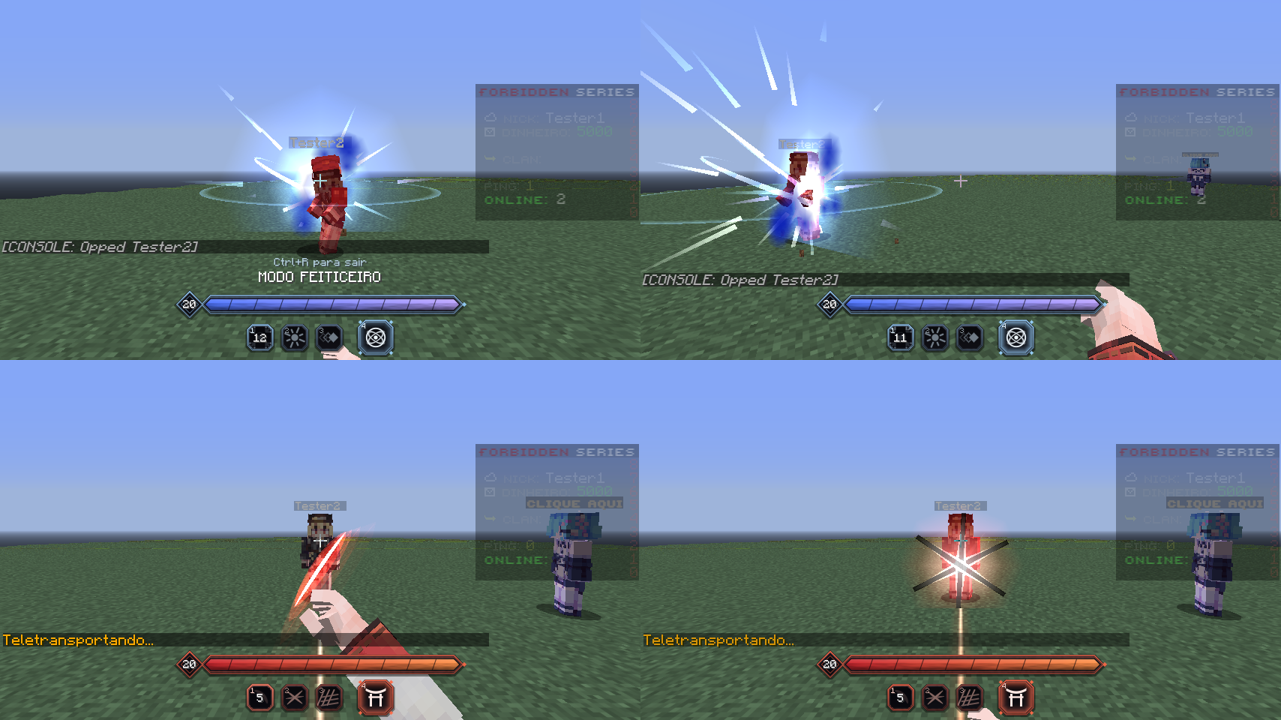
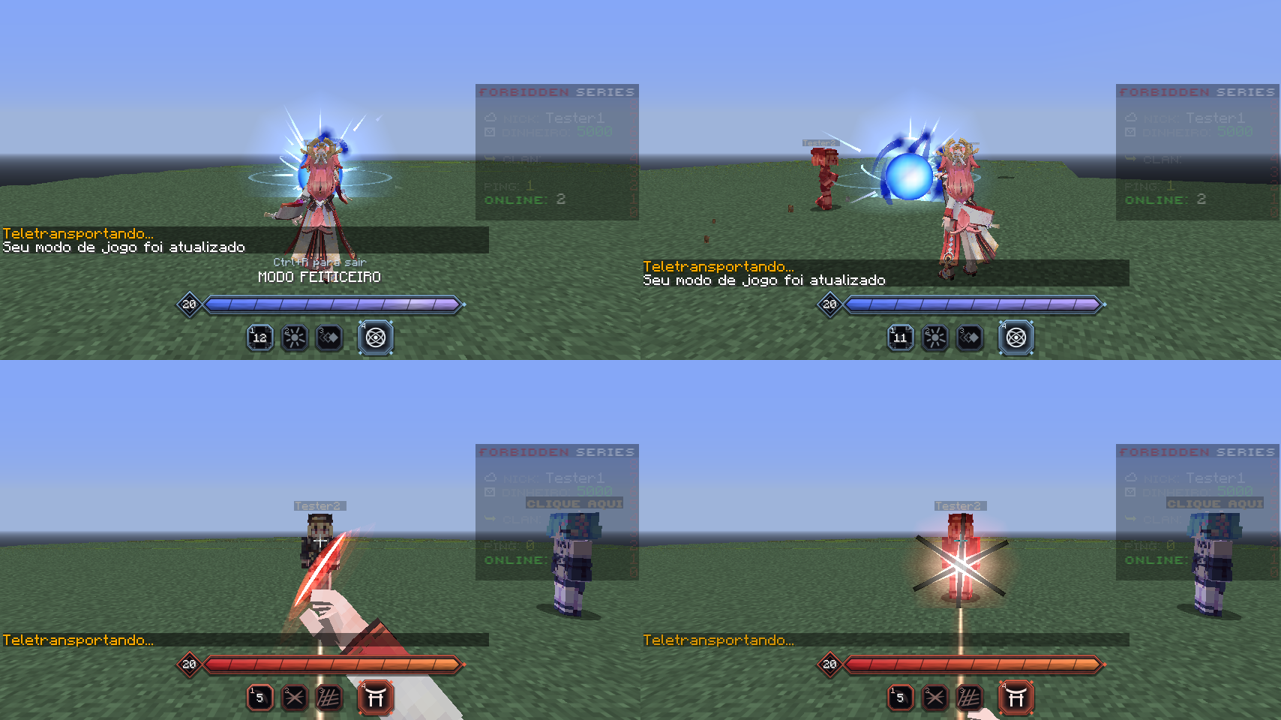
Atração: o orbe passa a ser uma esfera de verdade
O dono achou o efeito, feito só de brilhos, desagradável, e pediu uma esfera
azul de verdade.

* Uma malha esférica colorida pelo ângulo de cada ponto da superfície com o
  olho: branca no meio, azul-gelo, azul escuro na borda, um fio claro no
  contorno, e faixas que giram.
* Halo maior, uma poça de luz no chão embaixo, e os respingos de azul escuro
  ganham corpo e cauda.
* Harness: comando orb, para olhar a esfera sem servidor.

Claude-Session: https://claude.ai/code/session_01ELhLZxgHWpCrtrbY6oL2gv

diff --git a/src/main/java/com/akashic/ryoiki/client/AbilityFx.java b/src/main/java/com/akashic/ryoiki/client/AbilityFx.java
@@ -79,6 +79,8 @@ public final class AbilityFx {
         int age;
         /** Begun in the air: its caster hangs there. */
         boolean air;
+        /** The height of the ground under it; NaN when there is none near. */
+        float ground = Float.NaN;
         /** Ticks since it ended; negative while it lasts. */
         int closing = -1;
         final float[] needles = new float[NEEDLES * 4];
@@ -205,6 +207,11 @@ public final class AbilityFx {
         return CastPose.layer(age, g[2]);
     }
 
+    /** For the development harness: an effect, as if the server had announced it. */
+    public void show(byte[] data) {
+        heard(ModeWire.decode(data));
+    }
+
     /** Whether a player hangs in the air by an orb it began there: it does not move until the orb is over. */
     public boolean hangs(int entity) {
         Orb o = orbs.get(entity);
@@ -238,6 +245,17 @@ public final class AbilityFx {
                 o.closing = 0;
             } else {
                 rubble(mc.theWorld, o);
+            }
+            o.ground = Float.NaN;
+            int bx = MathHelper.floor_double(o.x);
+            int bz = MathHelper.floor_double(o.z);
+            for (int by = MathHelper.floor_double(o.y); by >= MathHelper.floor_double(o.y) - 4; by--) {
+                if (mc.theWorld.getBlock(bx, by, bz)
+                    .getMaterial()
+                    .blocksMovement()) {
+                    o.ground = by + 1;
+                    break;
+                }
             }
             if (o.closing > PULL_CLOSES) {
                 i.remove();
@@ -312,6 +330,86 @@ public final class AbilityFx {
 
     // Atração.
 
+    private static final int[] SPHERE = { 0x1838D8, 0x2F8CFF, 0x58D6FF, 0xBFF6FF, 0xFFFFFF };
+    private static final int SPHERE_RIM = 0x8FC8FF;
+    private static final int STACKS = 14;
+    private static final int SLICES = 22;
+
+    /**
+     * A sphere at a place (blocks from the camera), coloured by how its surface faces the eye, with bands of light
+     * that turn about it.
+     */
+    private static void sphere(Tessellator t, float x, float y, float z, float radius, float age, float alpha) {
+        if (alpha <= 0.02F) {
+            return;
+        }
+        float distance = (float) Math.sqrt(x * x + y * y + z * z);
+        if (distance < radius * 1.15F) {
+            // The eye is in it: there is no outside to draw.
+            return;
+        }
+        float[][][] at = new float[STACKS + 1][SLICES + 1][3];
+        int[][] color = new int[STACKS + 1][SLICES + 1];
+        float[][] facing = new float[STACKS + 1][SLICES + 1];
+        for (int i = 0; i <= STACKS; i++) {
+            double lat = Math.PI * i / STACKS - Math.PI / 2;
+            float cosLat = (float) Math.cos(lat);
+            float sinLat = (float) Math.sin(lat);
+            for (int j = 0; j <= SLICES; j++) {
+                double lon = Math.PI * 2 * j / SLICES;
+                float nx = cosLat * (float) Math.cos(lon);
+                float nz = cosLat * (float) Math.sin(lon);
+                float px = x + nx * radius;
+                float py = y + sinLat * radius;
+                float pz = z + nz * radius;
+                at[i][j][0] = px;
+                at[i][j][1] = py;
+                at[i][j][2] = pz;
+                // How squarely this bit of surface faces the eye: 1 in the middle of the disc, 0 on its edge.
+                float length = (float) Math.sqrt(px * px + py * py + pz * pz);
+                float f = -(nx * px + sinLat * py + nz * pz) / length;
+                facing[i][j] = f;
+                int c = Draw.mix(SPHERE[0], SPHERE[1], smooth((f - 0.14F) / 0.28F));
+                c = Draw.mix(c, SPHERE[2], smooth((f - 0.40F) / 0.30F));
+                c = Draw.mix(c, SPHERE[3], smooth((f - 0.68F) / 0.20F));
+                c = Draw.mix(c, SPHERE[4], smooth((f - 0.86F) / 0.13F));
+                c = Draw.mix(c, SPHERE_RIM, (1 - smooth(f / 0.09F)) * 0.75F);
+                // The bands: brighter and darker stripes that wind about it and turn.
+                float band = MathHelper.sin((float) (4 * lon + 3 * Math.sin(2 * lat)) + age * 0.35F);
+                color[i][j] = band > 0 ? Draw.mix(c, 0xFFFFFF, 0.16F * band) : Draw.mix(c, SPHERE[0], -0.14F * band);
+            }
+        }
+        Draw.translucent();
+        GL11.glDepthMask(true);
+        t.startDrawingQuads();
+        for (int i = 0; i < STACKS; i++) {
+            for (int j = 0; j < SLICES; j++) {
+                if (facing[i][j] < -0.05F && facing[i + 1][j] < -0.05F
+                    && facing[i][j + 1] < -0.05F
+                    && facing[i + 1][j + 1] < -0.05F) {
+                    // The far side.
+                    continue;
+                }
+                corner(t, at[i][j], color[i][j], alpha);
+                corner(t, at[i][j + 1], color[i][j + 1], alpha);
+                corner(t, at[i + 1][j + 1], color[i + 1][j + 1], alpha);
+                corner(t, at[i + 1][j], color[i + 1][j], alpha);
+            }
+        }
+        t.draw();
+        GL11.glDepthMask(false);
+    }
+
+    private static void corner(Tessellator t, float[] at, int color, float alpha) {
+        Draw.color(t, color, alpha);
+        t.addVertex(at[0], at[1], at[2]);
+    }
+
+    private static float smooth(float v) {
+        v = Draw.clamp01(v);
+        return v * v * (3 - 2 * v);
+    }
+
     /** Bits of the ground under an orb, torn up toward it: the game's own, of whatever block is there. */
     private static void rubble(World world, Orb o) {
         if (world == null || world.rand.nextInt(2) != 0) {
@@ -349,7 +447,7 @@ public final class AbilityFx {
         float near = 0.16F + 0.84F * Draw.clamp01(((float) Math.sqrt(x * x + y * y + z * z) - 0.8F) / 2.6F);
         float alive = open * (1 - closing) * near;
         float beat = 0.5F + 0.5F * MathHelper.sin(age * 0.9F);
-        float size = (0.62F + 0.06F * beat) * (0.35F + 0.65F * open) * (1 - closing * closing);
+        float size = (0.62F + 0.03F * beat) * (0.35F + 0.65F * open) * (1 - closing * closing);
         float speed = (float) Math.sqrt(vx * vx + vy * vy + vz * vz);
 
         // Swung through the air it leaves itself behind: paler orbs along the way it came.
@@ -453,34 +551,69 @@ public final class AbilityFx {
             GL11.glPopMatrix();
         }
 
-        // The orb: a wide blue light, a bright one inside it, a white heart.
+        // The light it throws: around it, and in a pool on whatever ground is under it.
         t.startDrawing(GL11.GL_TRIANGLES);
-        Draw.glow(t, x, y, z, size * 4.4F, BLUE, 0.5F * alive);
-        Draw.glow(t, x, y, z, size * 2.3F, ICE, 0.85F * alive);
-        Draw.glow(t, x, y, z, size * 1.25F, WHITE, alive);
+        Draw.glow(t, x, y, z, size * 5.8F, BLUE, 0.4F * alive);
+        Draw.glow(t, x, y, z, size * 3.3F, 0x7FCBFF, 0.55F * alive);
+        Draw.glow(t, x, y, z, size * 2.15F, 0xCFEFFF, 0.5F * alive);
         t.draw();
-        // And about it, dark lobes of deep blue, turning: what it has swallowed and not yet let go.
+        if (!Float.isNaN(o.ground) && o.y - o.ground < 4) {
+            float low = 1 - (float) (o.y - o.ground) / 4;
+            GL11.glPushMatrix();
+            GL11.glTranslatef(x, (float) (o.ground - RenderManager.renderPosY) + 0.03F, z);
+            Draw.ring(0, 0.6F + 2.6F * low, 28, 0xDFF4FF, 0.42F * alive * low, 0x7FCBFF, 0);
+            GL11.glPopMatrix();
+        }
+        // About it, dark splashes of deep blue, turning: each a hard little body with a tail.
         Draw.translucent();
-        t.startDrawing(GL11.GL_TRIANGLES);
         for (int i = 0; i < LOBES; i++) {
             float tilt = o.lobes[i * 4];
-            float a = o.lobes[i * 4 + 1] + age * o.lobes[i * 4 + 3];
-            float reach = size * o.lobes[i * 4 + 2] * (1.5F + 0.25F * MathHelper.sin(age * 0.3F + i));
-            float ca = MathHelper.cos(a) * reach;
-            float sa = MathHelper.sin(a) * reach;
-            float lx = x + ca * MathHelper.cos(tilt);
-            float ly = y + sa * 0.8F + ca * MathHelper.sin(tilt) * 0.5F;
-            float lz = z + sa * 0.6F - ca * MathHelper.sin(tilt) * 0.4F;
-            Draw.glow(t, lx, ly, lz, size * (0.7F + 0.2F * MathHelper.sin(age * 0.5F + i * 2)), INK, 0.8F * alive);
+            float reach = size * (1.75F + 0.75F * o.lobes[i * 4 + 2]) * (1 + 0.12F * MathHelper.sin(age * 0.3F + i));
+            float[] last = null;
+            for (int step = 0; step <= 9; step++) {
+                // The body leads; the tail is where it was a moment ago.
+                float a = o.lobes[i * 4 + 1] + (age - step * 0.32F) * o.lobes[i * 4 + 3];
+                float ca = MathHelper.cos(a) * reach;
+                float sa = MathHelper.sin(a) * reach;
+                float[] at = { x + ca * MathHelper.cos(tilt), y + sa * 0.85F + ca * MathHelper.sin(tilt) * 0.5F,
+                    z + sa * 0.6F - ca * MathHelper.sin(tilt) * 0.4F };
+                if (step == 0) {
+                    float body = size * (0.3F + 0.12F * MathHelper.sin(age * 0.5F + i * 2));
+                    t.startDrawing(GL11.GL_TRIANGLES);
+                    Draw.glow(t, at[0], at[1], at[2], body * 2.1F, INK, 0.75F * alive);
+                    Draw.glow(t, at[0], at[1], at[2], body * 1.1F, 0x061280, alive);
+                    t.draw();
+                } else {
+                    float f0 = 1 - (step - 1) / 9F;
+                    float f1 = 1 - step / 9F;
+                    t.startDrawingQuads();
+                    ribbon(
+                        t,
+                        last[0],
+                        last[1],
+                        last[2],
+                        at[0],
+                        at[1],
+                        at[2],
+                        size * 0.26F * f0,
+                        size * 0.26F * f1,
+                        INK,
+                        0.8F * alive * f0,
+                        INK,
+                        0.8F * alive * f1);
+                    t.draw();
+                }
+                last = at;
+            }
         }
-        t.draw();
-        Draw.additive();
-        t.startDrawing(GL11.GL_TRIANGLES);
-        Draw.glow(t, x, y, z, size * 0.7F, WHITE, 0.9F * alive);
-        t.draw();
+        // The orb itself: a sphere, with a body and an edge. From the eye, its middle is white, then the blue of
+        // ice, then a deep blue where its surface turns away, and a thin light on the very edge; and its surface
+        // moves.
+        sphere(t, x, y, z, size * 1.5F, age, alive);
 
         if (closing > 0) {
             // What is left when it closes: a ring of light going out, thin and quick.
+            Draw.additive();
             float out = closing * (2 - closing);
             GL11.glPushMatrix();
             GL11.glTranslatef(x, y, z);

diff --git a/src/main/java/com/akashic/ryoiki/dev/TransportHarness.java b/src/main/java/com/akashic/ryoiki/dev/TransportHarness.java
@@ -704,6 +704,24 @@ public final class TransportHarness {
                     .recharge(Integer.parseInt(n[0]) - 1, Integer.parseInt(n[1]), Integer.parseInt(n[2]));
                 break;
             }
+            case "orb": {
+                // "orb 5": the void's orb that far before the eyes, drawn here only, for half a minute: to look at it.
+                net.minecraft.util.Vec3 look = mc.thePlayer.getLookVec();
+                double far = Double.parseDouble(rest);
+                com.akashic.ryoiki.client.AbilityFx.INSTANCE.show(
+                    com.akashic.ryoiki.mode.ModeWire.effect(
+                        com.akashic.ryoiki.mode.AbilityMath.PULL,
+                        -7,
+                        mc.thePlayer.posX + look.xCoord * far,
+                        mc.thePlayer.posY + look.yCoord * far,
+                        mc.thePlayer.posZ + look.zCoord * far,
+                        0,
+                        0,
+                        0,
+                        com.akashic.ryoiki.mode.AbilityMath.ORB_RADIUS,
+                        600));
+                break;
+            }
             case "press":
                 com.akashic.ryoiki.client.SorcererClient.INSTANCE.press(Integer.parseInt(rest) - 1);
                 break;

diff --git a/docs/VISUAL.md b/docs/VISUAL.md
@@ -439,9 +439,12 @@ O dono aprovou as seis habilidades propostas (`PLANO-COMBATE.md`) e mandou fazer
   * **Dois modos**, pelo lugar onde o conjurador estava ao usar: **no chão** ele continua andando e o orbe varre à
     frente, mais ou menos na altura de um corpo; **no ar** ele fica **suspenso onde está** até o fim e o orbe vai
     para qualquer lado, inclusive para o céu (levando junto quem estiver preso).
-  * **O que se vê:** um miolo branco numa luz azul, com **lóbulos de azul escuro girando em volta**, três arcos
-    claros que giram, agulhas de luz chegando de toda parte, dois anéis que se fecham e pedaços do chão arrancados
-    para cima; quando é levado depressa deixa rastro; no fim fecha-se e solta um anel. Para quem está dentro, a
+  * **O que se vê:** uma **esfera azul de verdade** (pedido do dono em 2026-11-13, que achou a primeira versão,
+    só de brilhos, desagradável): uma malha esférica com corpo e borda, branca no meio, depois azul-gelo, depois
+    **azul escuro onde a superfície vira para longe do olho**, com um fio claro na borda e faixas que giram na
+    superfície. Em volta dela o halo, uma poça de luz no chão embaixo, **respingos de azul escuro com cauda**
+    girando, três arcos claros, agulhas de luz chegando de toda parte, dois anéis que se fecham e pedaços do chão
+    arrancados para cima; quando é levada depressa deixa rastro; no fim fecha-se e solta um anel. Para quem está dentro, a
     luz é atenuada (senão a tela ficava branca). Quem conjura **mantém a mão estendida** enquanto guia o orbe e a
     recolhe no fim.
 * **Talho (Santuário Carmesim).** Uma lâmina sai da frente do peito e voa reto por até 12 blocos, a 1,5 bloco por
